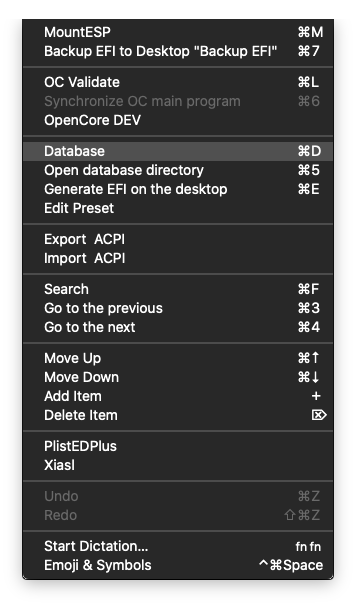
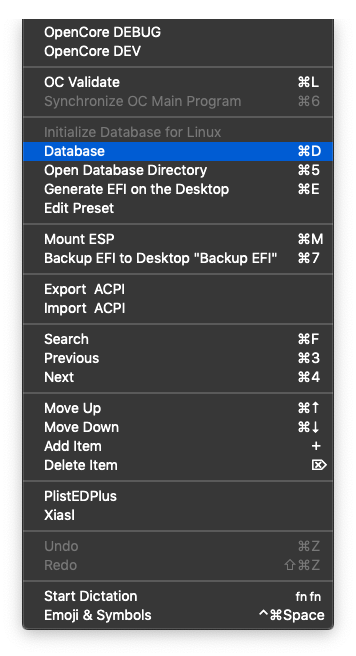
Added Upgrade section with screenshots

Changed region(s): [[0.0618, 0.0297, 0.9579, 0.9802]]

diff --git a/OC_auxiliary_tools_upgrade.md b/OC_auxiliary_tools_upgrade.md
@@ -1,0 +1,101 @@
+# Debug and Upgrade OpenCore with OCAuxiliaryTools
+
+## Switch to the Debug Version of OpenCore
+
+If you encounter problems during booting, you should utilize the *debug* version of OpenCore. As explained above in the *Misc* section, make sure you have activated debugging and then *Select Menu -> Edit -> OpenCore DEBUG*
+
+![](images/menu_debug.png)
+
+- Next, select *Menu -> Edit -> Synchronize OC Main Programn* or click the *Sync OC main program* button.
+
+![](images/sync_debug.png)
+
+- Then press the *Start Sync* button.
+
+![](images/sync_success.png)
+
+- Once everything works you can switch back to the *release* version by taking essentially the same steps:
+  
+  - Select *Menu -> Edit -> OpenCore DEBUG* - This will uncheck *OpenCore DEBUG* in the Menu.
+  
+  - Select *Menu -> Edit -> Synchronize OC Main Programn* or click the *Sync OC main program* button.
+  
+  - Press the *Start Sync* button.
+
+## Upgrade OpenCore and Kexts 
+
+Currently, the easiest method to keep your OpenCore files, drivers, config and kexts up to date is to use OCAuxiliaryTools. 
+
+### Updating the Config.plist
+
+OCAuxiliaryTools actually merges any changes made to the structure of the Config.plist and feature-set, thereby updating it to the latest version, without losing settings. It integrates the tasks which had to be handled manually by four separate tools in the past such as *OCConfigCompare*, *KextUpdater*, *ProperTree* and *OCValidate*.
+
+- Mount your EFI partition: *Menu -> Edit -> Mount ESP Partition*
+- Then click *Mount and open Config.plist*
+
+![](images/mount_efi.png)
+
+It is recommended to perform the upgrade first on a USB-stick and then transfer the EFI, after you are sure that the upgrade was successful. In any case backup your EFI first before making any changes.
+
+- Select *Menu -> Edit -> Backup EFI to Desktop* or click the *Backup EFI to Desktop* button.
+
+![](images/backup_efi.png)
+
+
+- Select *Menu -> Edit -> Sync OC Main Program*. -  If your Config.plist is outdated, you should see some OC Validate warnings indicated by a red exclamation mark on the OC Validate button.
+
+![](images/upgrade_load_config.png)
+
+- Clicking on the red button will show the errors. 
+
+![](images/upgrade_initial_warnings.png)
+
+- Close the *OC Validate* dialog. Because the *Save* button is grayed out, make and reverse a change by (for example) clicking twice on *ACPI -> Quirks -> NormalizeHeaders*  so that the *Save* button will turn blue. Now click the *Save* button, which will update the Config.plist and get rid of all or most of the shown errors. 
+
+![](images/upgrade_remaining_warnings.png)
+
+- Correct any remaining erros as indicated by OC Validate. The OC Validate button will change from red into a checkmark. This should be sufficient for updating your Config.plist.
+
+  ![](images/upgrade_no_warnings.png)
+  
+- Note: Any additional errors are most likely configuration errors which you need to fix on your own. Also refer to [Updating OpenCore and macOS | OpenCore Post-Install](https://dortania.github.io/OpenCore-Post-Install/universal/update.html) in the Dortania guide, which provides more details.
+  
+### Upgrading Kexts
+
+Ocasionally you may need to remove a kext (or driver) which is not needed any more for the newest version of OpenCore or which has been replaced with another. Deleting kexts in the *Kernel -> Add* section will remove them from the Config.plist, but not from the disk. Since *OCAuxiliaryTools* automatically syncs changes on disk with the kext list in Config.plist, it is easier to just delete them from the disk. From the *Kernel - Add* section select *Menu -> File -> Browse* to show your current kexts in the Finder. Then delete any outdated kext.
+
+- Next, select *Menu -> Edit -> Synchronize OC Main Programn* or click the *Sync OC main program* button.
+
+![](images/upgrade_open_sync.png)
+
+- In this dialog window we see Kexts on the left and OpenCore files on the right with indicators which files will need to be updated: Green = up-to-date, Red = outdated, Gray = link to repo is missing.  You can add a repo link for kexts in *Settings -> Kext Update URL -> [+]*.
+
+- We will start with the kexts. Therefore, click *Select All* or individually mark the checkboxes for kexts you want to update (otherwise they will be ignored).
+
+- Click on *Check for Kexts Updates*. This will download the latest available kexts. 
+
+- Click on *Update Kexts*, which will update the kexts in your EFI folder.
+
+
+![](images/upgrade_kexts.png)
+
+
+### Upgrading OpenCore, Drivers and Resources
+
+- On the right side of the above shown dialog window, the relevant files to be upgraded should already be selected automatically in the OpenCore file table 
+- Click *Update OpenCore to the latest version*. This is optional for the current stable version of OpenCore, but is recommended if you are using the OpenCore DEV version.
+- Then press the *Start Sync* button.
+
+![](images/upgrade_success.png)
+
+- If you check back in the *Sync* window, all OpenCore files should now be marked green.
+
+  ![](images/upgrade_complete.png)
+  
+### NOTES
+
+- If you are updating from OpenCore ≤ 0.6.5: disabling `Bootstrap` is required prior to updating OpenCore, to avoid an issue which otherwise can only be resolved by a CMOS reset. Follow the steps outlined here: [Updating Bootstrap | OpenCore Post-Install](https://dortania.github.io/OpenCore-Post-Install/multiboot/bootstrap.html#updating-bootstrap-in-0-6-6)
+
+- If you are updating from OpenCore ≤ 0.7.2, you need to set UEFI -> APFS -> `MinDate` and `MinVersion` to `-1` if you are using macOS Catalina or older.
+
+- Much of the *Upgrade OpenCore and Kexts* portion of this guide is based on [Updating OpenCore and Kexts with OCAT](https://github.com/5T33Z0/OC-Little-Translated/blob/main/D_Updating_OpenCore/README.md)  by 5T33Z0. Also check his helpful [OpenCore Config Tips and Tricks](https://github.com/5T33Z0/OC-Little-Translated/tree/main/A_Config_Tips_and_Tricks) and other sections in his repo.

diff --git a/OC_auxiliary_tools.md b/OC_auxiliary_tools.md
@@ -28,13 +28,13 @@
 
 ![](images/acpi_add.png)
 
-- For example we do not need  [SSDT-PMC](https://dortania.github.io/Getting-Started-With-ACPI/Universal/nvram)  in Comet Lake any more, as the NVRAM works without it.
+- For example we may not need  [SSDT-PMC](https://dortania.github.io/Getting-Started-With-ACPI/Universal/nvram)  in Comet Lake any more, as the NVRAM works without it.
 
 - Check the relevant section of the [Desktop Comet Lake | OpenCore Install Guide](https://dortania.github.io/OpenCore-Install-Guide/config.plist/comet-lake.html#acpi) for more details.
 
 - Add any additional SSDTs, if needed by clicking on the **[+]** button for downloaded SSDTs or by clicking on the **[…]** button for the most common prebuilt SSDTs available within *OCAuxiliaryTools*
 
-- In [ACPI - Quirks](https://dortania.github.io/OpenCore-Install-Guide/config.plist/comet-lake.html#acpi), uncheck *ResetLogoStatus*
+- In [ACPI - Quirks](https://dortania.github.io/OpenCore-Install-Guide/config.plist/comet-lake.html#acpi), uncheck *ResetLogoStatus*. (It is enabled by default in sample.plist. This Quirk didn't exist at the time the OpenCore Install Guide was written, so it's unknown if it's a requirement. Most likely it's not. @5T33Z0)
 
 ![](images/acpi_quirks.png)
 
@@ -83,13 +83,7 @@
 
 ![](images/misc_debug.png)
 
-- You could change `Target` to `67`  to show additional debug information, but this requires that you utilize the debug version of OpenCore, which is not used by default in the EFI created by *OCAuxiliaryTools*. If you do require more extensive debugging, manually replace the following files Inside your EFI with the  [debug versions](https://github.com/acidanthera/OpenCorePkg/releases) :
-  
-  ```
-  EFI/BOOT/BOOTx64.efi
-  EFI/OC/Drivers/OpenRuntime.efi
-  EFI/OC/OpenCore.efi
-  ```
+- By default the EFI created by *OCAuxiliaryTools* uses the most recent *release* version of OpenCore. If you want to show additional debug information change `Target` to `67`  and switch to the *debug* version of OpenCore, which will be explained at the end of this guide.
 
 - In the [Misc - Security](https://dortania.github.io/OpenCore-Install-Guide/config.plist/comet-lake.html#security) section change *SecureBootModel* to *Default* if installing macOS Big Sur or newer.
 
@@ -135,25 +129,9 @@
 
 ### Notes
 
-- If your motherboard uses the Intel’s I225-V 2.5GBe ethernet controller, additional settings are required in the relevant sections. Just refer to the [OpenCore Install Guide](https://dortania.github.io/OpenCore-Install-Guide/) and use relevant presets in *OCAuxiliaryTools*.
+- If your motherboard uses the Intel’s I225-V 2.5GBe ethernet controller, additional settings are required in the relevant sections. Just refer to the [OpenCore Install Guide](https://dortania.github.io/OpenCore-Install-Guide/) and use the applicable presets in *OCAuxiliaryTools*.
 - Remember to **save your Config.plist** by clicking the *Save* button or with Menu -> Edit -> Save.
 
-### Useful Features of OCAuxiliaryTools
 
-- **Backup your EFI:** Menu -> Edit -> Backup EFI to Desktop 
 
-![](images/backup_efi.png)
 
-- **Validate your Config.plist:** Menu -> Edit -> OC Validate
-
-![](images/oc_validate.png)
-
-- **Mount your EFI partition:** Menu -> Edit -> Mount ESP Partition
-
-![](images/mount_efi.png)
-
-- **Upgrade OpenCore and Kexts:** Menu -> Edit -> Sync OC Main Program
-
-- Detailed instructions here: [Updating OpenCore and Kexts with OCAT](https://github.com/5T33Z0/OC-Little-Translated/blob/main/D_Updating_OpenCore/README.md)
-
-![](images/upgrade_opencore.png)
